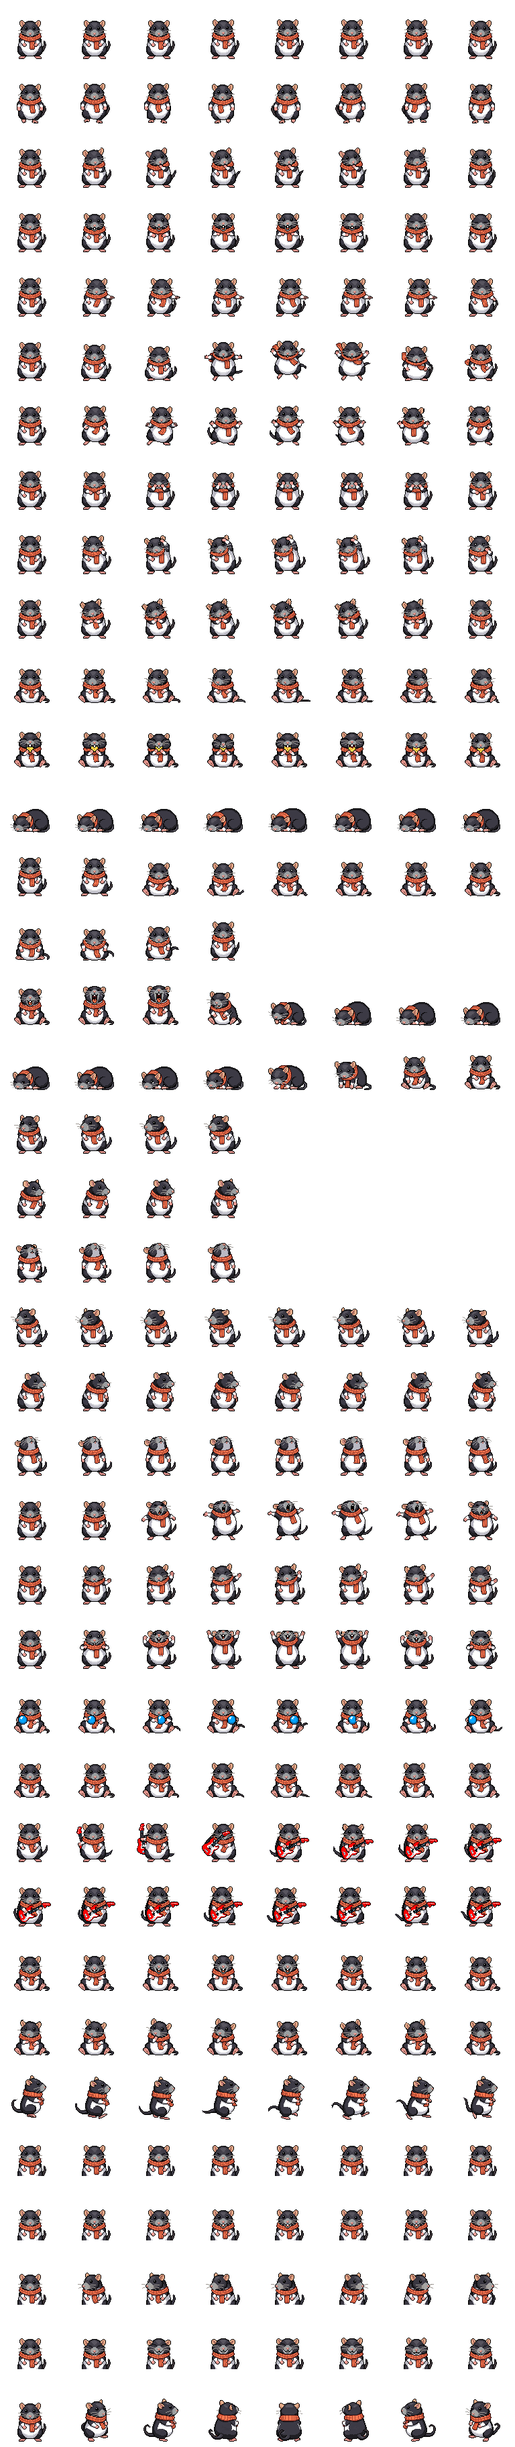
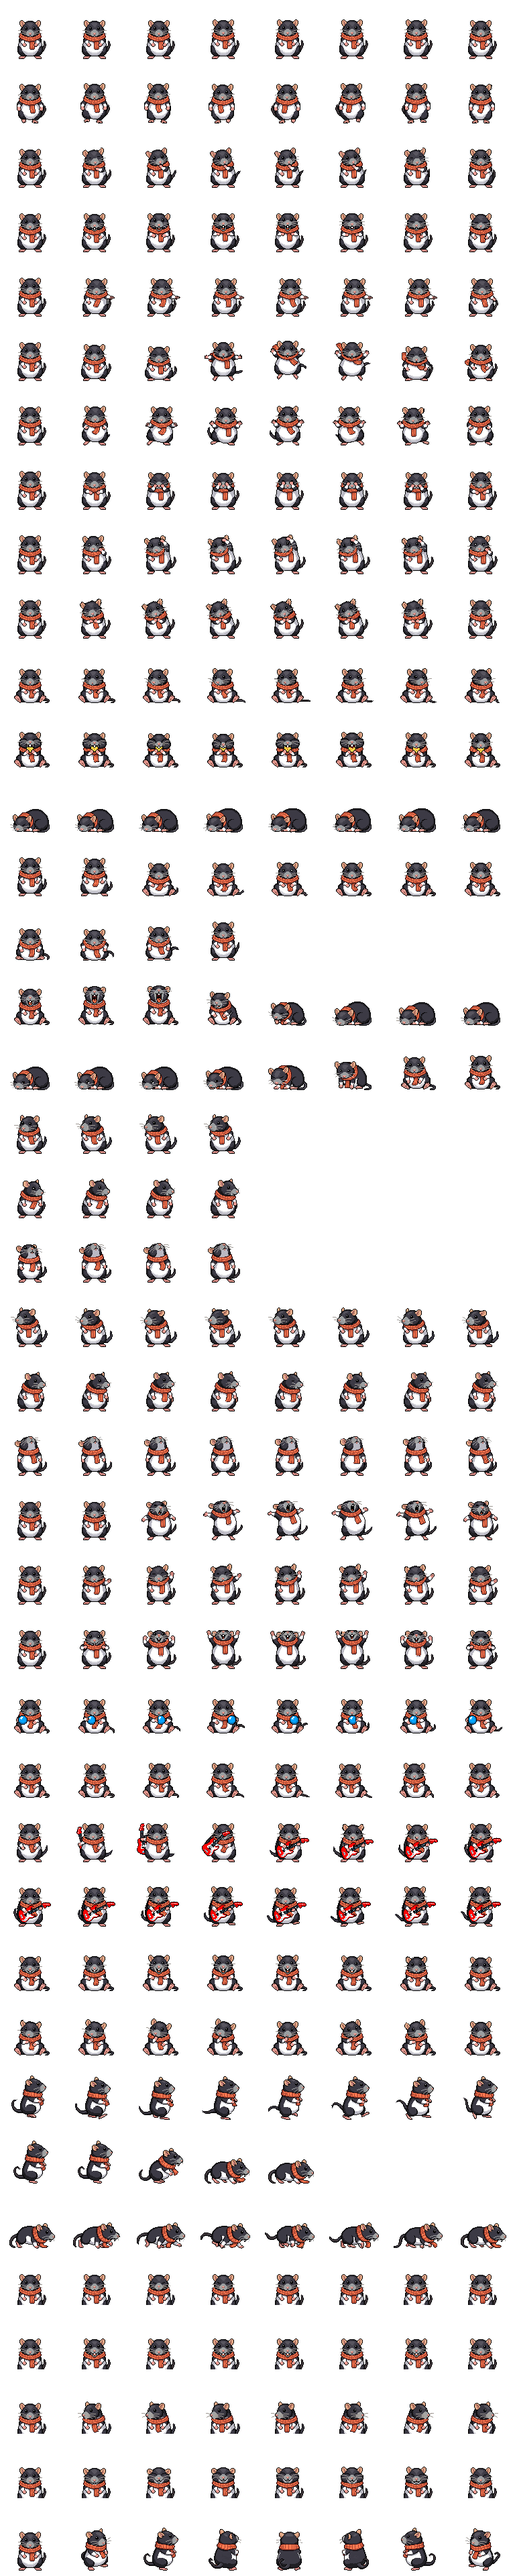
Mesa: o morador corre em quatro patas

diff --git a/modelos/mesa/widgets/00-dengas.js b/modelos/mesa/widgets/00-dengas.js
@@ -83,7 +83,7 @@ const clip = (a, o = {}) => ({ a, t0:0, ...o });
 function zonaOlhar(now){ if (now - D.mouse.at > 2600) return ''; const dx = D.mouse.x - D.x, dy = D.mouse.y - (D.y - 70); if (Math.hypot(dx, dy) < 130) return ''; if (dy < 0 && -dy > Math.abs(dx) * 1.2) return 'cima'; return dx < 0 ? 'esq' : 'dir'; }
 function proximos(now){
   const fala = now < D.falandoAte;
-  if (D.modo === 'andando') return [clip('andar_lado')];
+  if (D.modo === 'andando') return [clip('correndo_lado')];
   if (D.pego || D.modo === 'caindo') return [clip('parado')];
   if (D.pose === 'sentado'){
     if (fala) return [clip('sentado_falando')];
@@ -106,7 +106,7 @@ function senta(sim){
 }
 function desenha(now){
   const k = D.modo + D.pose + (D.pensando ? 't' : '') + (now < D.falandoAte ? 'f' : '') + (D.pego ? 'd' : '');
-  if (k !== chave){ if (chave && !(atual && /^t_(parado_sentado|sentado_parado)$/.test(atual.a))) { clipes = []; atual = null; } chave = k; }
+  if (k !== chave){ if (chave && ![atual, clipes[0]].some(q => q && /^t_(parado_sentado|sentado_parado|quatro_patas)$/.test(q.a))) { clipes = []; atual = null; } chave = k; }
   let m = atual && AT.anims[atual.a], c = m ? Math.floor((now - atual.t0) * m.fps / 1000) : 0;
   if (!m || c >= m.n){
     if (m && atual.laco && atual.laco()) atual.t0 = now;
@@ -116,7 +116,7 @@ function desenha(now){
   if (atual.rev) c = m.n - 1 - c;
   g.imageSmoothingEnabled = false; g.setTransform(1, 0, 0, 1, 0, 0); g.clearRect(0, 0, 384, 384);
   if (!atlas.naturalWidth) return;
-  if (atual.a === 'andar_lado' && D.lado < 0){ g.translate(384, 0); g.scale(-1, 1); }
+  if (/_lado$|^t_quatro_patas$/.test(atual.a) && D.lado < 0){ g.translate(384, 0); g.scale(-1, 1); }
   g.drawImage(atlas, c * CEL, m.l * CEL, CEL, CEL, 0, 0, 384, 384);
 }
 
@@ -141,8 +141,9 @@ function passo(now){
       if (now > (D.levantaAte || 0)){
         const s = D.em ? superficies().find(q => q.id === D.em) : superficies()[0], lim = s || { x0:44, x1:A.w - 44 };
         const alvo = clamp(D.alvoX, lim.x0, lim.x1), d = alvo - D.x;
-        if (Math.abs(d) < 3){ D.alvoX = null; D.modo = 'parado'; D.sentaEm = now + rnd(1200, 5000); guardaLugar(); const f = D.depois; D.depois = null; f?.(); }
-        else { D.modo = 'andando'; D.lado = Math.sign(d); D.x += D.lado * Math.min(Math.abs(d), 74 * dt); }
+        if (Math.abs(d) < 3){ D.alvoX = null; D.modo = 'parado'; toca([clip('t_quatro_patas', { rev:true })]); D.sentaEm = now + rnd(1200, 5000); guardaLugar(); const f = D.depois; D.depois = null; f?.(); }
+        else if (D.modo !== 'andando' && !D.desceu){ D.desceu = true; D.lado = Math.sign(d); toca([clip('t_quatro_patas')]); D.levantaAte = now + 460; }
+        else { D.desceu = false; D.modo = 'andando'; D.lado = Math.sign(d); D.x += D.lado * Math.min(Math.abs(d), 150 * dt); }
       }
     } else {
       if (D.modo === 'andando') D.modo = 'parado';

diff --git a/apps/mesa/README.md b/apps/mesa/README.md
@@ -32,7 +32,7 @@ Ainda não tem ombros côncavos nem o descolar líquido da [fusão com a borda](
 - **Soltar:** embalo `v × 0,14 s` (teto 3200 px/s, sem embalo abaixo de 120 px/s); a menos de **26 px** de uma borda, encosta nela. Assenta em k 230 / ζ 0,82, 4 subpassos, `dt` ≤ 1/30.
 - **Redimensionar:** alça de 22 px na quina **de dentro** (oposta às bordas encostadas); puxa a partir do lado oposto, com mínimo do widget e teto da tela.
 - **Trazer pra frente:** qualquer clique no widget.
-- **Morador:** fica em pé em **superfícies** (o banquinho da beira de baixo, 24 px acima do fim da tela, ou o topo de um widget com pelo menos 128 px livres em cima). Cai com gravidade 2600 px/s² (teto 1500), anda a 74 px/s de perfil (pra esquerda é o mesmo clipe espelhado), senta depois de alguns segundos, passeia a cada 16 a 38 s, anda junto com o widget em que está e cai se o widget some. Clique abre a conversa; arrastar (4 px) pega ele.
+- **Morador:** fica em pé em **superfícies** (o banquinho da beira de baixo, 24 px acima do fim da tela, ou o topo de um widget com pelo menos 128 px livres em cima). Cai com gravidade 2600 px/s² (teto 1500), corre em quatro patas a 150 px/s (desce em ~460 ms antes de sair e levanta ao chegar; pra esquerda é o mesmo clipe espelhado), senta depois de alguns segundos, passeia a cada 16 a 38 s, anda junto com o widget em que está e cai se o widget some. Clique abre a conversa; arrastar (4 px) pega ele.
 - **Conversa:** pílula de vidro que nasce do lado com mais tela, com sugestões (abrir widget fechado, organizar a mesa) e as mensagens; o balão coral é pra o que ele fala sozinho, com o texto saindo no ritmo da boca.
 
 ### Degraus de tamanho e alça

diff --git a/apps/mesa/refinos.md b/apps/mesa/refinos.md
@@ -3,6 +3,7 @@
 > Registro de cada refino da Mesa, do mais novo pro mais antigo ([modelo](../../templates/registro-de-refino.md)). Índice: [Mesa](README.md).
 
 ## 2026-11-25 · Mesa 0.2
+- **Morador em quatro patas:** pra se deslocar ele desce pra quatro patas (5 quadros, 11 fps, ~460 ms), corre de lado a 150 px/s (8 quadros, 13 fps) e levanta ao chegar (a mesma descida ao contrário); parado e conversando continua de pé. Pra esquerda, os clipes são espelhados.
 - **O que:** widget **Apps** (lista os apps do menu Iniciar, favoritos, abre com um clique; comandos `abrir`, `favoritar`, `procurar`; sem tecla); widget **Estante** (ponte com a Estante Musical pelo barramento `~/.dengas`: estado, tocar, tom, andamento, trocar de música; comando `comando`); **aparência** comandável (`Mesa.aparencia`: cor de destaque, opacidade do vidro de 0,35 a 1, raio de 0 a 34 px, papel de parede em 2 ou 3 cores; ferramenta `mesa_aparencia` do morador); o morador reage sozinho quando a música muda (no máximo uma fala a cada 25 s) e anda até o widget que abre.
 - **Por quê:** tudo na Mesa tem de ser personalizável e comandável pelo morador.
 - **Testado:** no navegador por `localhost`: os cinco widgets abrem, os nove comandos aparecem, o comando de notas escreve, a aparência troca. **Não testado:** app instalado, abrir apps de verdade, a Estante respondendo, o Claude chamando as ferramentas.
